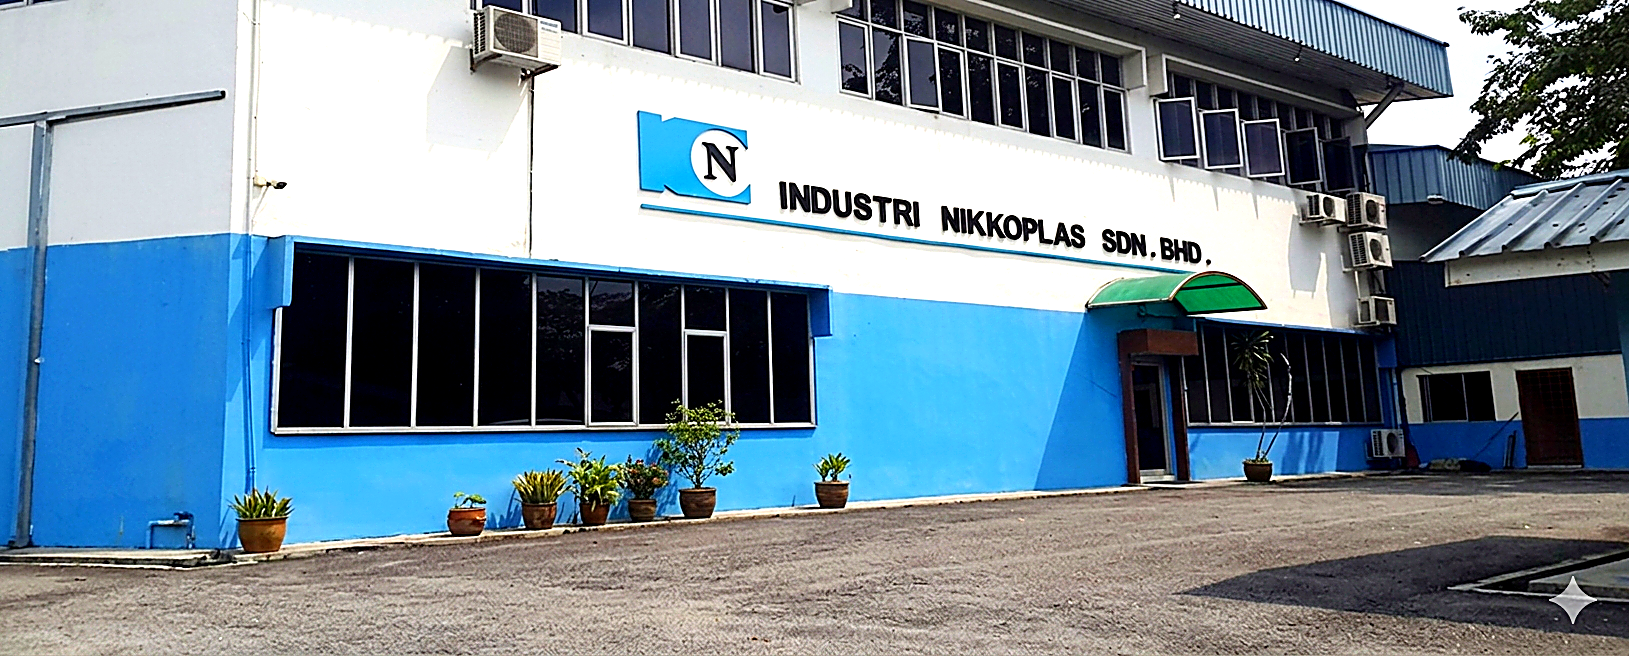
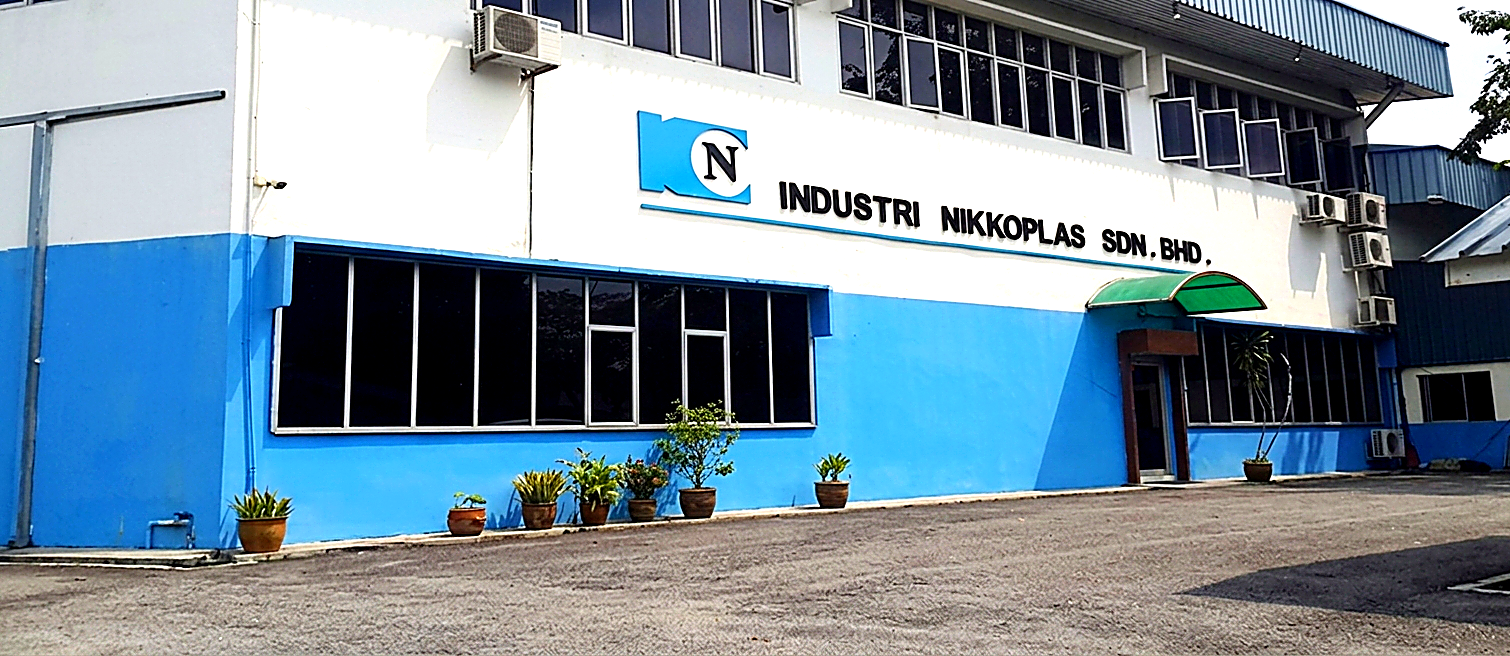
Point machinery/portfolio pages at the cleaned Factory-outerview photo
Follow-up to 0b17b97: this commit carries the actual file changes
(cropped Factory-outerview assets, and the machinery/portfolio pages
now referencing them) that were dropped from that commit by a bad
pathspec in the git add command.

Claude-Session: https://claude.ai/code/session_01RGbXu7c2YoRgYVCcqpNuPk

diff --git a/portfolio/index.html b/portfolio/index.html
@@ -19,14 +19,14 @@
     <meta property="og:site_name" content="industrinikkoplas.com">
     <meta property="og:title" content="Injection Moulding Portfolio | Nikkoplas Johor Bahru">
     <meta property="og:description" content="See examples of precision plastic injection moulded components manufactured by Nikkoplas — consumer electronics, engineering parts, and industrial applications from our Johor Bahru factory.">
-    <meta property="og:image" content="https://www.industrinikkoplas.com/precision-plastic-molded-parts.jpeg">
+    <meta property="og:image" content="https://www.industrinikkoplas.com/Factory-outerview.png">
     <meta property="og:image:width" content="1200">
     <meta property="og:image:height" content="630">
     <meta property="og:locale" content="en_MY">
     <meta name="twitter:card" content="summary_large_image">
     <meta name="twitter:title" content="Injection Moulding Portfolio | Nikkoplas Johor Bahru">
     <meta name="twitter:description" content="See examples of precision plastic injection moulded components manufactured by Nikkoplas — consumer electronics, engineering parts, and industrial applications from our Johor Bahru factory.">
-    <meta name="twitter:image" content="https://www.industrinikkoplas.com/precision-plastic-molded-parts.jpeg">
+    <meta name="twitter:image" content="https://www.industrinikkoplas.com/Factory-outerview.png">
     <meta name="keywords" content="plastic injection moulding portfolio Malaysia, moulded plastic components examples, consumer electronics plastic parts, industrial plastic components Johor Bahru, Nikkoplas portfolio">
     <link rel="preconnect" href="https://fonts.googleapis.com">
     <link rel="preconnect" href="https://fonts.gstatic.com" crossorigin>
@@ -58,7 +58,7 @@
         nav a:hover, nav a[aria-current] { color: var(--primary); }
         .cta-btn { background: linear-gradient(135deg, var(--primary), var(--primary-light)); color: white !important; padding: 11px 22px; border-radius: var(--radius-sm); font-weight: 700; font-size: 0.82rem; cursor: pointer; text-decoration: none; transition: all 0.3s; display: inline-block; letter-spacing: 0.5px; text-transform: uppercase; box-shadow: 0 3px 12px rgba(0,90,171,0.3); }
         .cta-btn:hover { transform: translateY(-2px); box-shadow: 0 6px 20px rgba(0,90,171,0.35); }
-        .page-hero { background: linear-gradient(160deg, rgba(0,20,60,0.93) 0%, rgba(0,70,140,0.84) 100%), url('/precision-plastic-molded-parts.jpeg'); background-size: cover; background-position: center; color: white; padding: 100px 5% 80px; text-align: center; }
+        .page-hero { background: linear-gradient(160deg, rgba(0,20,60,0.93) 0%, rgba(0,70,140,0.84) 100%), url('/Factory-outerview.webp'); background-size: cover; background-position: center; color: white; padding: 100px 5% 80px; text-align: center; }
         .page-hero .breadcrumb { font-size: 0.78rem; opacity: 0.6; margin-bottom: 16px; letter-spacing: 1px; text-transform: uppercase; }
         .page-hero .breadcrumb a { color: white; text-decoration: none; }
         .page-hero h1 { font-family: 'Poppins', sans-serif; font-size: clamp(2rem, 4.5vw, 3.2rem); font-weight: 900; margin: 0 0 16px; line-height: 1.15; }
@@ -80,6 +80,7 @@
         .portfolio-label { padding: 20px; }
         .portfolio-label h3 { margin: 0 0 6px; color: var(--secondary); font-size: 1.05rem; font-weight: 700; }
         .portfolio-label p { margin: 0; color: var(--text-muted); font-size: 0.88rem; line-height: 1.6; }
+        .portfolio-placeholder { width: 100%; height: 260px; display: flex; align-items: center; justify-content: center; background: linear-gradient(135deg, rgba(0,90,171,0.07), rgba(77,163,255,0.12)); color: var(--primary); }
         .clients-section { background: var(--secondary); padding: 70px 5%; text-align: center; }
         .clients-section h2 { font-family: 'Poppins', sans-serif; font-size: clamp(1.5rem, 3vw, 2rem); color: white; margin-bottom: 12px; font-weight: 800; }
         .clients-section p { opacity: 0.7; max-width: 580px; margin: 0 auto 40px; font-size: 0.95rem; }
@@ -169,10 +170,9 @@
                     <p>Precision engineering components moulded to functional specifications, often requiring secondary processing such as ultrasonic welding or precision printing.</p>
                 </div>
             </div>
-            <div class="portfolio-card reveal reveal-delay-3" onclick="openLightbox('/precision-plastic-molded-parts.jpeg')">
-                <div class="portfolio-img-wrap">
-                    <img src="/precision-plastic-molded-parts.jpeg" alt="Industrial plastic injection molded components Johor Bahru Malaysia" loading="lazy" width="600" height="260">
-                    <div class="portfolio-overlay"><span class="overlay-icon">🔍</span></div>
+            <div class="portfolio-card reveal reveal-delay-3">
+                <div class="portfolio-img-wrap portfolio-placeholder">
+                    <svg width="64" height="64" viewBox="0 0 24 24" fill="none" stroke="currentColor" stroke-width="1.25" stroke-linecap="round" stroke-linejoin="round"><path d="M12.22 2h-.44a2 2 0 0 0-2 2v.18a2 2 0 0 1-1 1.73l-.43.25a2 2 0 0 1-2 0l-.15-.08a2 2 0 0 0-2.73.73l-.22.38a2 2 0 0 0 .73 2.73l.15.1a2 2 0 0 1 1 1.72v.51a2 2 0 0 1-1 1.74l-.15.09a2 2 0 0 0-.73 2.73l.22.38a2 2 0 0 0 2.73.73l.15-.08a2 2 0 0 1 2 0l.43.25a2 2 0 0 1 1 1.73V20a2 2 0 0 0 2 2h.44a2 2 0 0 0 2-2v-.18a2 2 0 0 1 1-1.73l.43-.25a2 2 0 0 1 2 0l.15.08a2 2 0 0 0 2.73-.73l.22-.39a2 2 0 0 0-.73-2.73l-.15-.08a2 2 0 0 1-1-1.74v-.5a2 2 0 0 1 1-1.74l.15-.09a2 2 0 0 0 .73-2.73l-.22-.38a2 2 0 0 0-2.73-.73l-.15.08a2 2 0 0 1-2 0l-.43-.25a2 2 0 0 1-1-1.73V4a2 2 0 0 0-2-2z"/><circle cx="12" cy="12" r="3"/></svg>
                 </div>
                 <div class="portfolio-label">
                     <h3>Industrial Applications</h3>

diff --git a/zh/portfolio/index.html b/zh/portfolio/index.html
@@ -19,14 +19,14 @@
     <meta property="og:site_name" content="industrinikkoplas.com">
     <meta property="og:title" content="射出成型產品實績 | Nikkoplas 新山">
     <meta property="og:description" content="欣賞 Nikkoplas 位於新山工廠製造的精密塑膠射出成型零件範例——消費電子、工程零件與工業應用。">
-    <meta property="og:image" content="https://www.industrinikkoplas.com/precision-plastic-molded-parts.jpeg">
+    <meta property="og:image" content="https://www.industrinikkoplas.com/Factory-outerview.png">
     <meta property="og:image:width" content="1200">
     <meta property="og:image:height" content="630">
     <meta property="og:locale" content="zh_TW">
     <meta name="twitter:card" content="summary_large_image">
     <meta name="twitter:title" content="射出成型產品實績 | Nikkoplas 新山">
     <meta name="twitter:description" content="欣賞 Nikkoplas 位於新山工廠製造的精密塑膠射出成型零件範例——消費電子、工程零件與工業應用。">
-    <meta name="twitter:image" content="https://www.industrinikkoplas.com/precision-plastic-molded-parts.jpeg">
+    <meta name="twitter:image" content="https://www.industrinikkoplas.com/Factory-outerview.png">
     <meta name="keywords" content="塑膠射出成型產品實績 馬來西亞, 射出成型零件範例, 消費電子塑膠零件, 工業塑膠零件 新山, Nikkoplas 產品實績">
     <link rel="preconnect" href="https://fonts.googleapis.com">
     <link rel="preconnect" href="https://fonts.gstatic.com" crossorigin>
@@ -58,7 +58,7 @@
         nav a:hover, nav a[aria-current] { color: var(--primary); }
         .cta-btn { background: linear-gradient(135deg, var(--primary), var(--primary-light)); color: white !important; padding: 11px 22px; border-radius: var(--radius-sm); font-weight: 700; font-size: 0.82rem; cursor: pointer; text-decoration: none; transition: all 0.3s; display: inline-block; letter-spacing: 0.5px; text-transform: uppercase; box-shadow: 0 3px 12px rgba(0,90,171,0.3); }
         .cta-btn:hover { transform: translateY(-2px); box-shadow: 0 6px 20px rgba(0,90,171,0.35); }
-        .page-hero { background: linear-gradient(160deg, rgba(0,20,60,0.93) 0%, rgba(0,70,140,0.84) 100%), url('/precision-plastic-molded-parts.jpeg'); background-size: cover; background-position: center; color: white; padding: 100px 5% 80px; text-align: center; }
+        .page-hero { background: linear-gradient(160deg, rgba(0,20,60,0.93) 0%, rgba(0,70,140,0.84) 100%), url('/Factory-outerview.webp'); background-size: cover; background-position: center; color: white; padding: 100px 5% 80px; text-align: center; }
         .page-hero .breadcrumb { font-size: 0.78rem; opacity: 0.6; margin-bottom: 16px; letter-spacing: 1px; text-transform: uppercase; }
         .page-hero .breadcrumb a { color: white; text-decoration: none; }
         .page-hero h1 { font-family: 'Poppins', sans-serif; font-size: clamp(2rem, 4.5vw, 3.2rem); font-weight: 900; margin: 0 0 16px; line-height: 1.15; }
@@ -80,6 +80,7 @@
         .portfolio-label { padding: 20px; }
         .portfolio-label h3 { margin: 0 0 6px; color: var(--secondary); font-size: 1.05rem; font-weight: 700; }
         .portfolio-label p { margin: 0; color: var(--text-muted); font-size: 0.88rem; line-height: 1.6; }
+        .portfolio-placeholder { width: 100%; height: 260px; display: flex; align-items: center; justify-content: center; background: linear-gradient(135deg, rgba(0,90,171,0.07), rgba(77,163,255,0.12)); color: var(--primary); }
         .clients-section { background: var(--secondary); padding: 70px 5%; text-align: center; }
         .clients-section h2 { font-family: 'Poppins', sans-serif; font-size: clamp(1.5rem, 3vw, 2rem); color: white; margin-bottom: 12px; font-weight: 800; }
         .clients-section p { opacity: 0.7; max-width: 580px; margin: 0 auto 40px; font-size: 0.95rem; }
@@ -169,10 +170,9 @@
                     <p>依功能規格成型的精密工程零件，通常需要超音波熔接或精密印刷等二次加工。</p>
                 </div>
             </div>
-            <div class="portfolio-card reveal reveal-delay-3" onclick="openLightbox('/precision-plastic-molded-parts.jpeg')">
-                <div class="portfolio-img-wrap">
-                    <img src="/precision-plastic-molded-parts.jpeg" alt="馬來西亞新山工業塑膠射出成型零件" loading="lazy" width="600" height="260">
-                    <div class="portfolio-overlay"><span class="overlay-icon">🔍</span></div>
+            <div class="portfolio-card reveal reveal-delay-3">
+                <div class="portfolio-img-wrap portfolio-placeholder">
+                    <svg width="64" height="64" viewBox="0 0 24 24" fill="none" stroke="currentColor" stroke-width="1.25" stroke-linecap="round" stroke-linejoin="round"><path d="M12.22 2h-.44a2 2 0 0 0-2 2v.18a2 2 0 0 1-1 1.73l-.43.25a2 2 0 0 1-2 0l-.15-.08a2 2 0 0 0-2.73.73l-.22.38a2 2 0 0 0 .73 2.73l.15.1a2 2 0 0 1 1 1.72v.51a2 2 0 0 1-1 1.74l-.15.09a2 2 0 0 0-.73 2.73l.22.38a2 2 0 0 0 2.73.73l.15-.08a2 2 0 0 1 2 0l.43.25a2 2 0 0 1 1 1.73V20a2 2 0 0 0 2 2h.44a2 2 0 0 0 2-2v-.18a2 2 0 0 1 1-1.73l.43-.25a2 2 0 0 1 2 0l.15.08a2 2 0 0 0 2.73-.73l.22-.39a2 2 0 0 0-.73-2.73l-.15-.08a2 2 0 0 1-1-1.74v-.5a2 2 0 0 1 1-1.74l.15-.09a2 2 0 0 0 .73-2.73l-.22-.38a2 2 0 0 0-2.73-.73l-.15.08a2 2 0 0 1-2 0l-.43-.25a2 2 0 0 1-1-1.73V4a2 2 0 0 0-2-2z"/><circle cx="12" cy="12" r="3"/></svg>
                 </div>
                 <div class="portfolio-label">
                     <h3>工業應用</h3>

diff --git a/machinery/index.html b/machinery/index.html
@@ -19,14 +19,14 @@
     <meta property="og:site_name" content="industrinikkoplas.com">
     <meta property="og:title" content="Injection Moulding Machinery Fleet | Nikkoplas Johor Bahru">
     <meta property="og:description" content="28 injection moulding machines from 50T to 450T at our ISO-certified Johor Bahru facility — precision micro moulding to large format capacity.">
-    <meta property="og:image" content="https://www.industrinikkoplas.com/industrial-moulding-machine-fleet.png">
+    <meta property="og:image" content="https://www.industrinikkoplas.com/Factory-outerview.png">
     <meta property="og:image:width" content="1200">
     <meta property="og:image:height" content="630">
     <meta property="og:locale" content="en_MY">
     <meta name="twitter:card" content="summary_large_image">
     <meta name="twitter:title" content="Injection Moulding Machinery Fleet | Nikkoplas Johor Bahru">
     <meta name="twitter:description" content="28 injection moulding machines from 50T to 450T at our ISO-certified Johor Bahru facility — precision micro moulding to large format capacity.">
-    <meta name="twitter:image" content="https://www.industrinikkoplas.com/industrial-moulding-machine-fleet.png">
+    <meta name="twitter:image" content="https://www.industrinikkoplas.com/Factory-outerview.png">
     <meta name="keywords" content="injection moulding machines Johor Bahru, 50T to 450T injection moulding, horizontal injection moulding fleet, plastic moulding machinery Malaysia, large format injection moulding JB">
     <link rel="preconnect" href="https://fonts.googleapis.com">
     <link rel="preconnect" href="https://fonts.gstatic.com" crossorigin>
@@ -58,7 +58,7 @@
         nav a:hover, nav a[aria-current] { color: var(--primary); }
         .cta-btn { background: linear-gradient(135deg, var(--primary), var(--primary-light)); color: white !important; padding: 11px 22px; border-radius: var(--radius-sm); font-weight: 700; font-size: 0.82rem; cursor: pointer; text-decoration: none; transition: all 0.3s; display: inline-block; letter-spacing: 0.5px; text-transform: uppercase; box-shadow: 0 3px 12px rgba(0,90,171,0.3); }
         .cta-btn:hover { transform: translateY(-2px); box-shadow: 0 6px 20px rgba(0,90,171,0.35); }
-        .page-hero { background: linear-gradient(160deg, rgba(0,20,60,0.93) 0%, rgba(0,70,140,0.84) 100%), url('/industrial-moulding-machine-fleet.webp'); background-size: cover; background-position: center; color: white; padding: 100px 5% 80px; text-align: center; }
+        .page-hero { background: linear-gradient(160deg, rgba(0,20,60,0.93) 0%, rgba(0,70,140,0.84) 100%), url('/Factory-outerview.webp'); background-size: cover; background-position: center; color: white; padding: 100px 5% 80px; text-align: center; }
         .page-hero .breadcrumb { font-size: 0.78rem; opacity: 0.6; margin-bottom: 16px; letter-spacing: 1px; text-transform: uppercase; }
         .page-hero .breadcrumb a { color: white; text-decoration: none; }
         .page-hero h1 { font-family: 'Poppins', sans-serif; font-size: clamp(2rem, 4.5vw, 3.2rem); font-weight: 900; margin: 0 0 16px; line-height: 1.15; }

diff --git a/zh/machinery/index.html b/zh/machinery/index.html
@@ -19,14 +19,14 @@
     <meta property="og:site_name" content="industrinikkoplas.com">
     <meta property="og:title" content="射出成型機隊 | Nikkoplas 新山">
     <meta property="og:description" content="我們位於新山的 ISO 認證廠區擁有 28 台從 50 噸到 450 噸的射出成型機——從精密微型成型到大型產能一應俱全。">
-    <meta property="og:image" content="https://www.industrinikkoplas.com/industrial-moulding-machine-fleet.png">
+    <meta property="og:image" content="https://www.industrinikkoplas.com/Factory-outerview.png">
     <meta property="og:image:width" content="1200">
     <meta property="og:image:height" content="630">
     <meta property="og:locale" content="zh_TW">
     <meta name="twitter:card" content="summary_large_image">
     <meta name="twitter:title" content="射出成型機隊 | Nikkoplas 新山">
     <meta name="twitter:description" content="我們位於新山的 ISO 認證廠區擁有 28 台從 50 噸到 450 噸的射出成型機——從精密微型成型到大型產能一應俱全。">
-    <meta name="twitter:image" content="https://www.industrinikkoplas.com/industrial-moulding-machine-fleet.png">
+    <meta name="twitter:image" content="https://www.industrinikkoplas.com/Factory-outerview.png">
     <meta name="keywords" content="射出成型機 新山, 50噸至450噸 射出成型, 臥式射出成型機隊, 塑膠成型機械 馬來西亞, 大型射出成型 新山">
     <link rel="preconnect" href="https://fonts.googleapis.com">
     <link rel="preconnect" href="https://fonts.gstatic.com" crossorigin>
@@ -58,7 +58,7 @@
         nav a:hover, nav a[aria-current] { color: var(--primary); }
         .cta-btn { background: linear-gradient(135deg, var(--primary), var(--primary-light)); color: white !important; padding: 11px 22px; border-radius: var(--radius-sm); font-weight: 700; font-size: 0.82rem; cursor: pointer; text-decoration: none; transition: all 0.3s; display: inline-block; letter-spacing: 0.5px; text-transform: uppercase; box-shadow: 0 3px 12px rgba(0,90,171,0.3); }
         .cta-btn:hover { transform: translateY(-2px); box-shadow: 0 6px 20px rgba(0,90,171,0.35); }
-        .page-hero { background: linear-gradient(160deg, rgba(0,20,60,0.93) 0%, rgba(0,70,140,0.84) 100%), url('/industrial-moulding-machine-fleet.webp'); background-size: cover; background-position: center; color: white; padding: 100px 5% 80px; text-align: center; }
+        .page-hero { background: linear-gradient(160deg, rgba(0,20,60,0.93) 0%, rgba(0,70,140,0.84) 100%), url('/Factory-outerview.webp'); background-size: cover; background-position: center; color: white; padding: 100px 5% 80px; text-align: center; }
         .page-hero .breadcrumb { font-size: 0.78rem; opacity: 0.6; margin-bottom: 16px; letter-spacing: 1px; text-transform: uppercase; }
         .page-hero .breadcrumb a { color: white; text-decoration: none; }
         .page-hero h1 { font-family: 'Poppins', sans-serif; font-size: clamp(2rem, 4.5vw, 3.2rem); font-weight: 900; margin: 0 0 16px; line-height: 1.15; }
